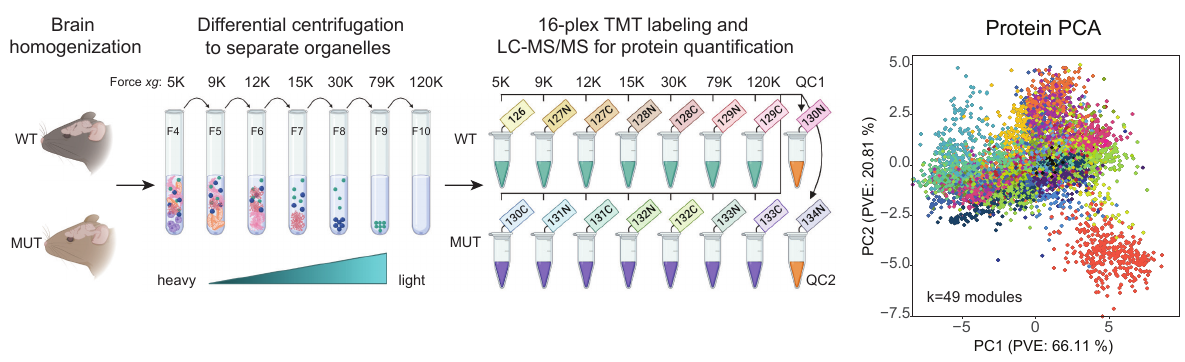
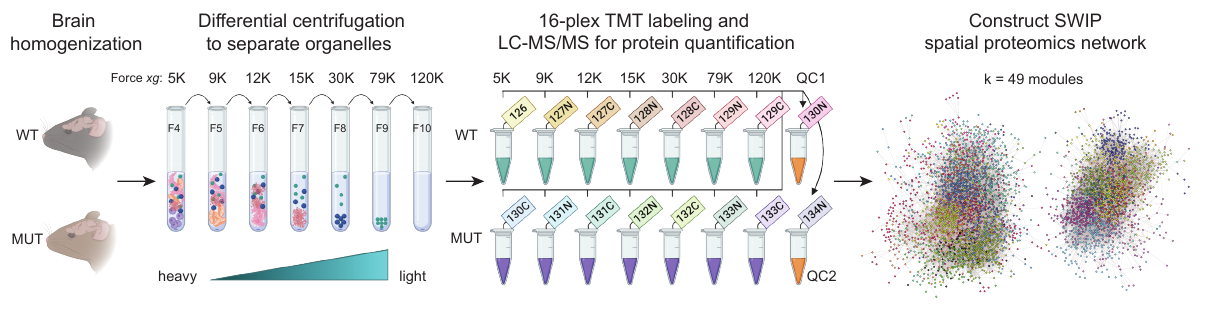
work

diff --git a/swip/index.html b/swip/index.html
@@ -76,7 +76,6 @@
 										</div>
 								</section>
 
-
 								<!-- background: overview -->
 								<section>
 										<h4>Resolving Subcellular Space with Proximity and Spatial Proteomics</h4>
@@ -150,7 +149,7 @@
 
 								<!-- background: WASH Complex -->
 								<section>
-										<h3>WASHC4 is a Subunit of the Pentameric WASH Complex</h3>
+										<h3>SWIP is a Subunit of the Pentameric WASH Complex</h3>
 										<figure>
 												<img src="./graphics/washcnew.png" alt="washc" style="width:30%">
 												<figcaption>Mutations in WASHC4 (SWIP) and WASHC5 (Strumpellin) are associated with intellectual disability and spastic paraplegia.</figcaption>
@@ -214,7 +213,7 @@
 								<section>
 										<h3>SWIP Spatial Proteomics</h3>
 										<figure>
-												<img src="./graphics/spatprot-2.png" alt="spatial-proteomics" style="width:100%">
+												<img src="./graphics/spatprot.png" alt="spatial-proteomics" style="width:100%">
 												<figcaption>Profiling protein abundance across seven biological fractions (BioFractions).</figcaption>
 												<br>
 												<div class='foot-right'>
@@ -269,68 +268,62 @@
 
 								<!-- EMPHASIS: Module-level analysis -->
 								<section>
-										<h4>Extending linear models with mixed effects</h4>
-										\[log_2(Module Intensity) =  \mu + Condition + (1|Protein)\]
+										<h4>Module-level analysis powers biological insight in spatial proteomics</h4>
 										<figure>
 												<img src="./graphics/flow.png" alt="prot-complex-module" style="width:75%">
-												<figcaption>Module-level analysis powers biological insight in spatial proteomics.</figcaption>
 										</figure> 
-										<br><br>
-										<div class='foot-left'>
-										\[H_0: l^T * \beta = 0\]
-										</div>
-										<div class='foot-right'>
-										\[t = \frac{l^T \hat{\beta}}{\sqrt{l \sigma^2 \hat{V} l^T}}\]
-										</div>
+										\[\begin{gather}
+										log_2(Protein Intensity) =  \mu + Condition\\
+										log_2(Module Intensity) =  \mu + Condition + (1|Protein)
+										\end{gather}\]
 								</section>
 
 								<!-- overview: spatprot network -->
 								<section data-background-image="./graphics/spatprot-network.png" 
 										 data-background-size="contain" data-background-opacity=0.90>
+										<h2 class="r-fit-text">Neten + Leiden (Surprise)</h2>
+										<p>k=49</p>
+										<br>
+										<p>Endosome (M38) | Lysosome (M36) | Synapse (M27)</p>
 								</section>
 
 								<!-- results: Endosomal Module -->
 								<section>
-										<h3>Endosome</h3>
+										<h3>Significant Dysruption of an Endosomal Module</h3>
 										<figure>
 												<img src="./graphics/endosome.png" alt="m38" style="width:70%">
-												<figcaption>Decreased abundance of an endosomal module.</figcaption>
 										</figure> 
 								</section>
 
 								<!-- results: Lysosome Module -->
 								<section>
-										<h3>Lysosome</h3>
+										<h3>Dysruption of a Lysosomal Protein Network</h3>
 										<figure>
 												<img src="./graphics/lysosome-2.png" alt="bioid" style="width:70%">
-												<figcaption>Increased abundance of a lysosomal module.</figcaption>
 										</figure> 
 								</section>
 
 								<!-- results: Lipofuscin -->
 								<section>
-										<h3>Lysosome Module</h3>
+										<h3>Lipofuscin Accumulation in SWIP<sup>P1019R</sup> Mutant Brain</h3>
 										<figure>
 												<img src="./graphics/lyso-tem-2.png" alt="lyso-tem" style="width:100%">
-												<figcaption>Lipofuscin accumulation.</figcaption>
 										</figure> 
 								</section>
 
 								<!-- results: Synapse -->
 								<section>
-										<h3>Synapse Module</h3>
+										<h3>Decreased abundance of a Synapse Module</h3>
 										<figure>
-												<img src="./graphics/synapse-module.png" alt="synapse-module" style="width:100%">
-												<figcaption>Decreased abundance of a synapse module.</figcaption>
+												<img src="./graphics/synapse-2.png" alt="synapse" style="width:70%">
 										</figure> 
 								</section>
 
 								<!-- results: Decreased Synapse + Degeneration -->
 								<section>
-										<h3>Synapse and marker of neurodegeneration</h3>
+										<h3>Decreased Synapse Number in SWIP<sup>P1019R</sup> Adult Motor Cortex</h3>
 										<figure>
-												<img src="./graphics/synapse-caspase.png" alt="synapse-caspase" style="width:100%">
-												<figcaption>Degeneration.</figcaption>
+												<img src="./graphics/synapse-ihc.png" alt="synapse-ihc" style="width:50%">
 										</figure> 
 								</section>
 
@@ -373,7 +366,7 @@
 												<li>Dr. Jamie Courtland, MD, PhD</li>
 												<li>Dr. Scott Soderling, PhD</li>
 												<li>Dr. Akiyoshi Uezu, MD, PhD</li>
-												<li>Soderling Lab (SD, AP, JK, YG, EE, WB)</li>
+												<li>Soderling Lab</li>
 												<li>Greg Waitt and Duke's Proteomics Core Facility</li>
 												<li>Funding: (NIH F31 5F31NS113738-03)</li>
 										</ul>
@@ -387,6 +380,11 @@
 										<div class='foot-right'>
 												email: <a href="mailto: twesleyb10@gmail.com">twesleyb10@gmail.com</a>
 										</div>
+								</section>
+
+								<!-- Extras -->
+								<section>
+										<h2>Extra Slides</h2>
 								</section>
 
 								<!-- transition: Spatial Proteomics Network -->
@@ -449,29 +447,19 @@
 										<p><code>Konigsberg < Kaliningrad < Russia</code></p>
 								</section>
 
-								<section>
-										<h3>Assessing Differential Protein Abundance with <code>tidyProt</code></h3>
-
-										<pre><code data-trim>
-										library(tidyProt)
-										data(swip, wash_bioid, package="SwipProteomics")
-
-										fx <- log2(Intensity) ~ 0 + Condition
-															   fm <- lm(fx, data = subset(wash_bioid, Accession==swip)
-
-															   LT <- getContrast(fm, "WASH","Control")
-															   lmTestContrast(fm, LT)		   
-										</code></pre>
-								</section>
-
 								<section data-markdown>
+										<h3>Assessing Differential Protein Abundance with <code>tidyProt</code></h3>
 										<textarea data-template>
-												# foo
 												```
-												bar = 5
-												x <- 67
-												  y <- sample(x)
-												  ```
+												library(tidyProt)
+												data(swip, wash_bioid, package="SwipProteomics")
+
+												fx <- log2(Intensity) ~ 0 + Condition
+											    fm <- lm(fx, data = subset(wash_bioid, Accession==swip)
+
+											    LT <- getContrast(fm, "WASH","Control")
+											    lmTestContrast(fm, LT)		   
+												```
 										</textarea>
 								</section>
 
